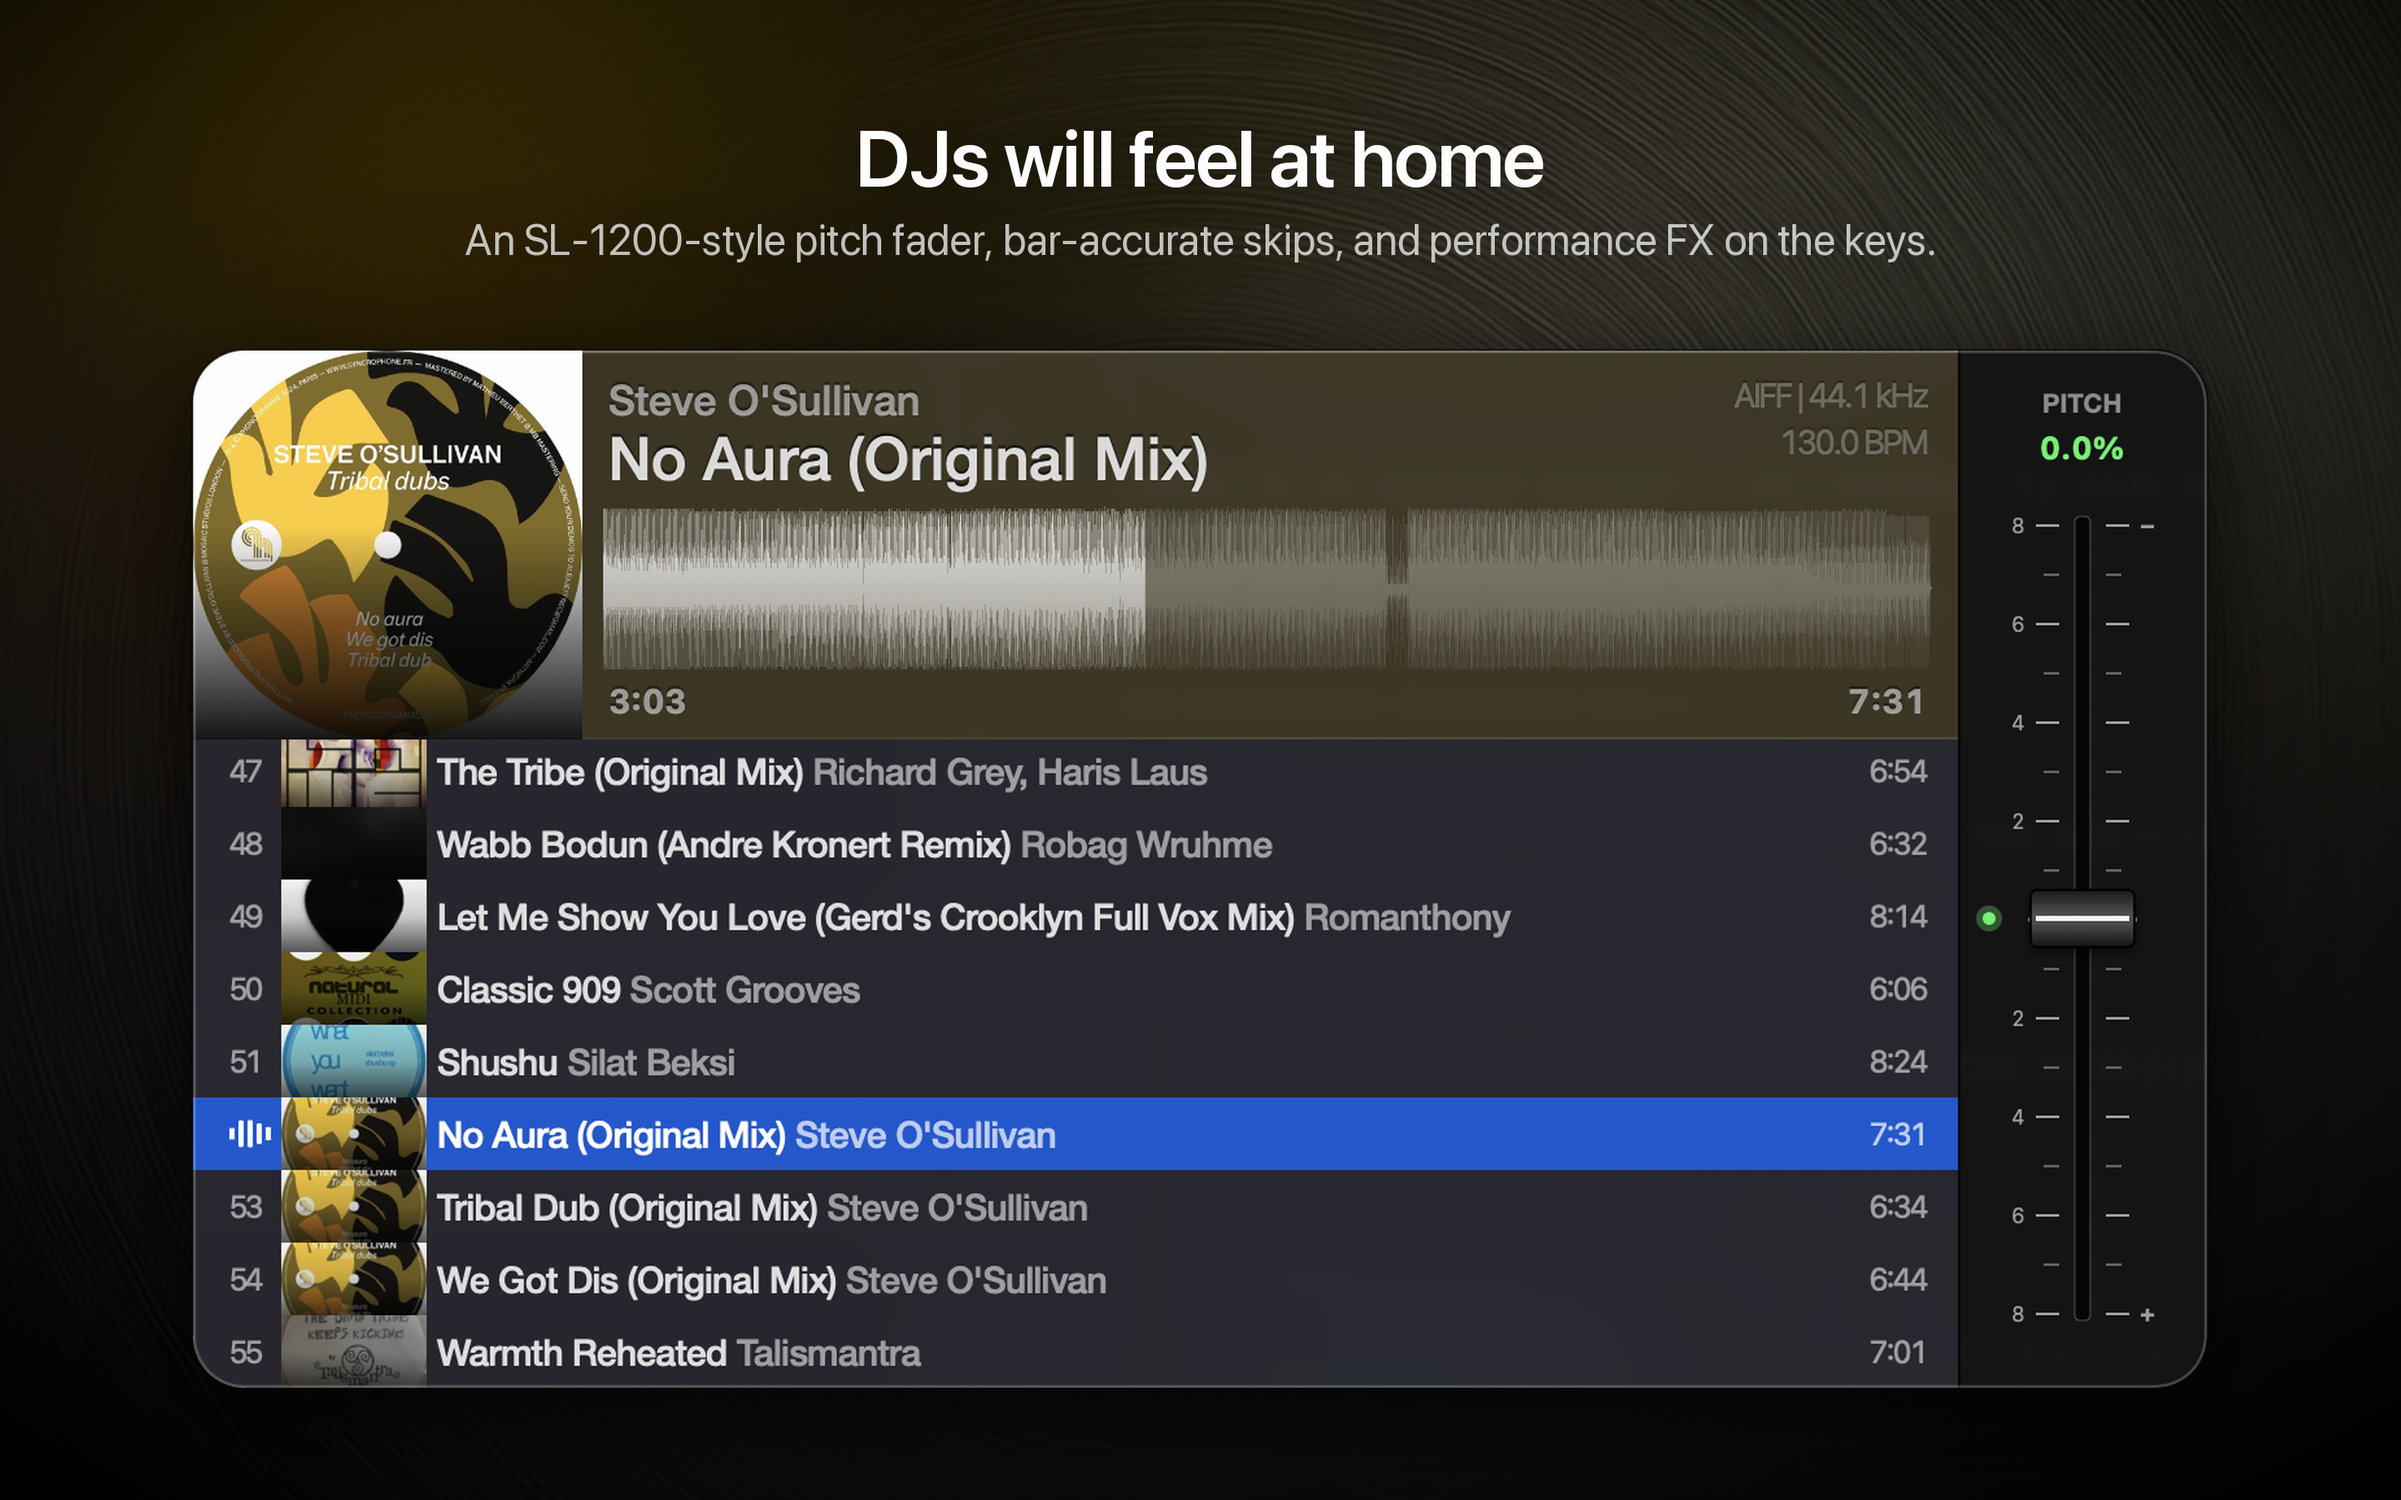
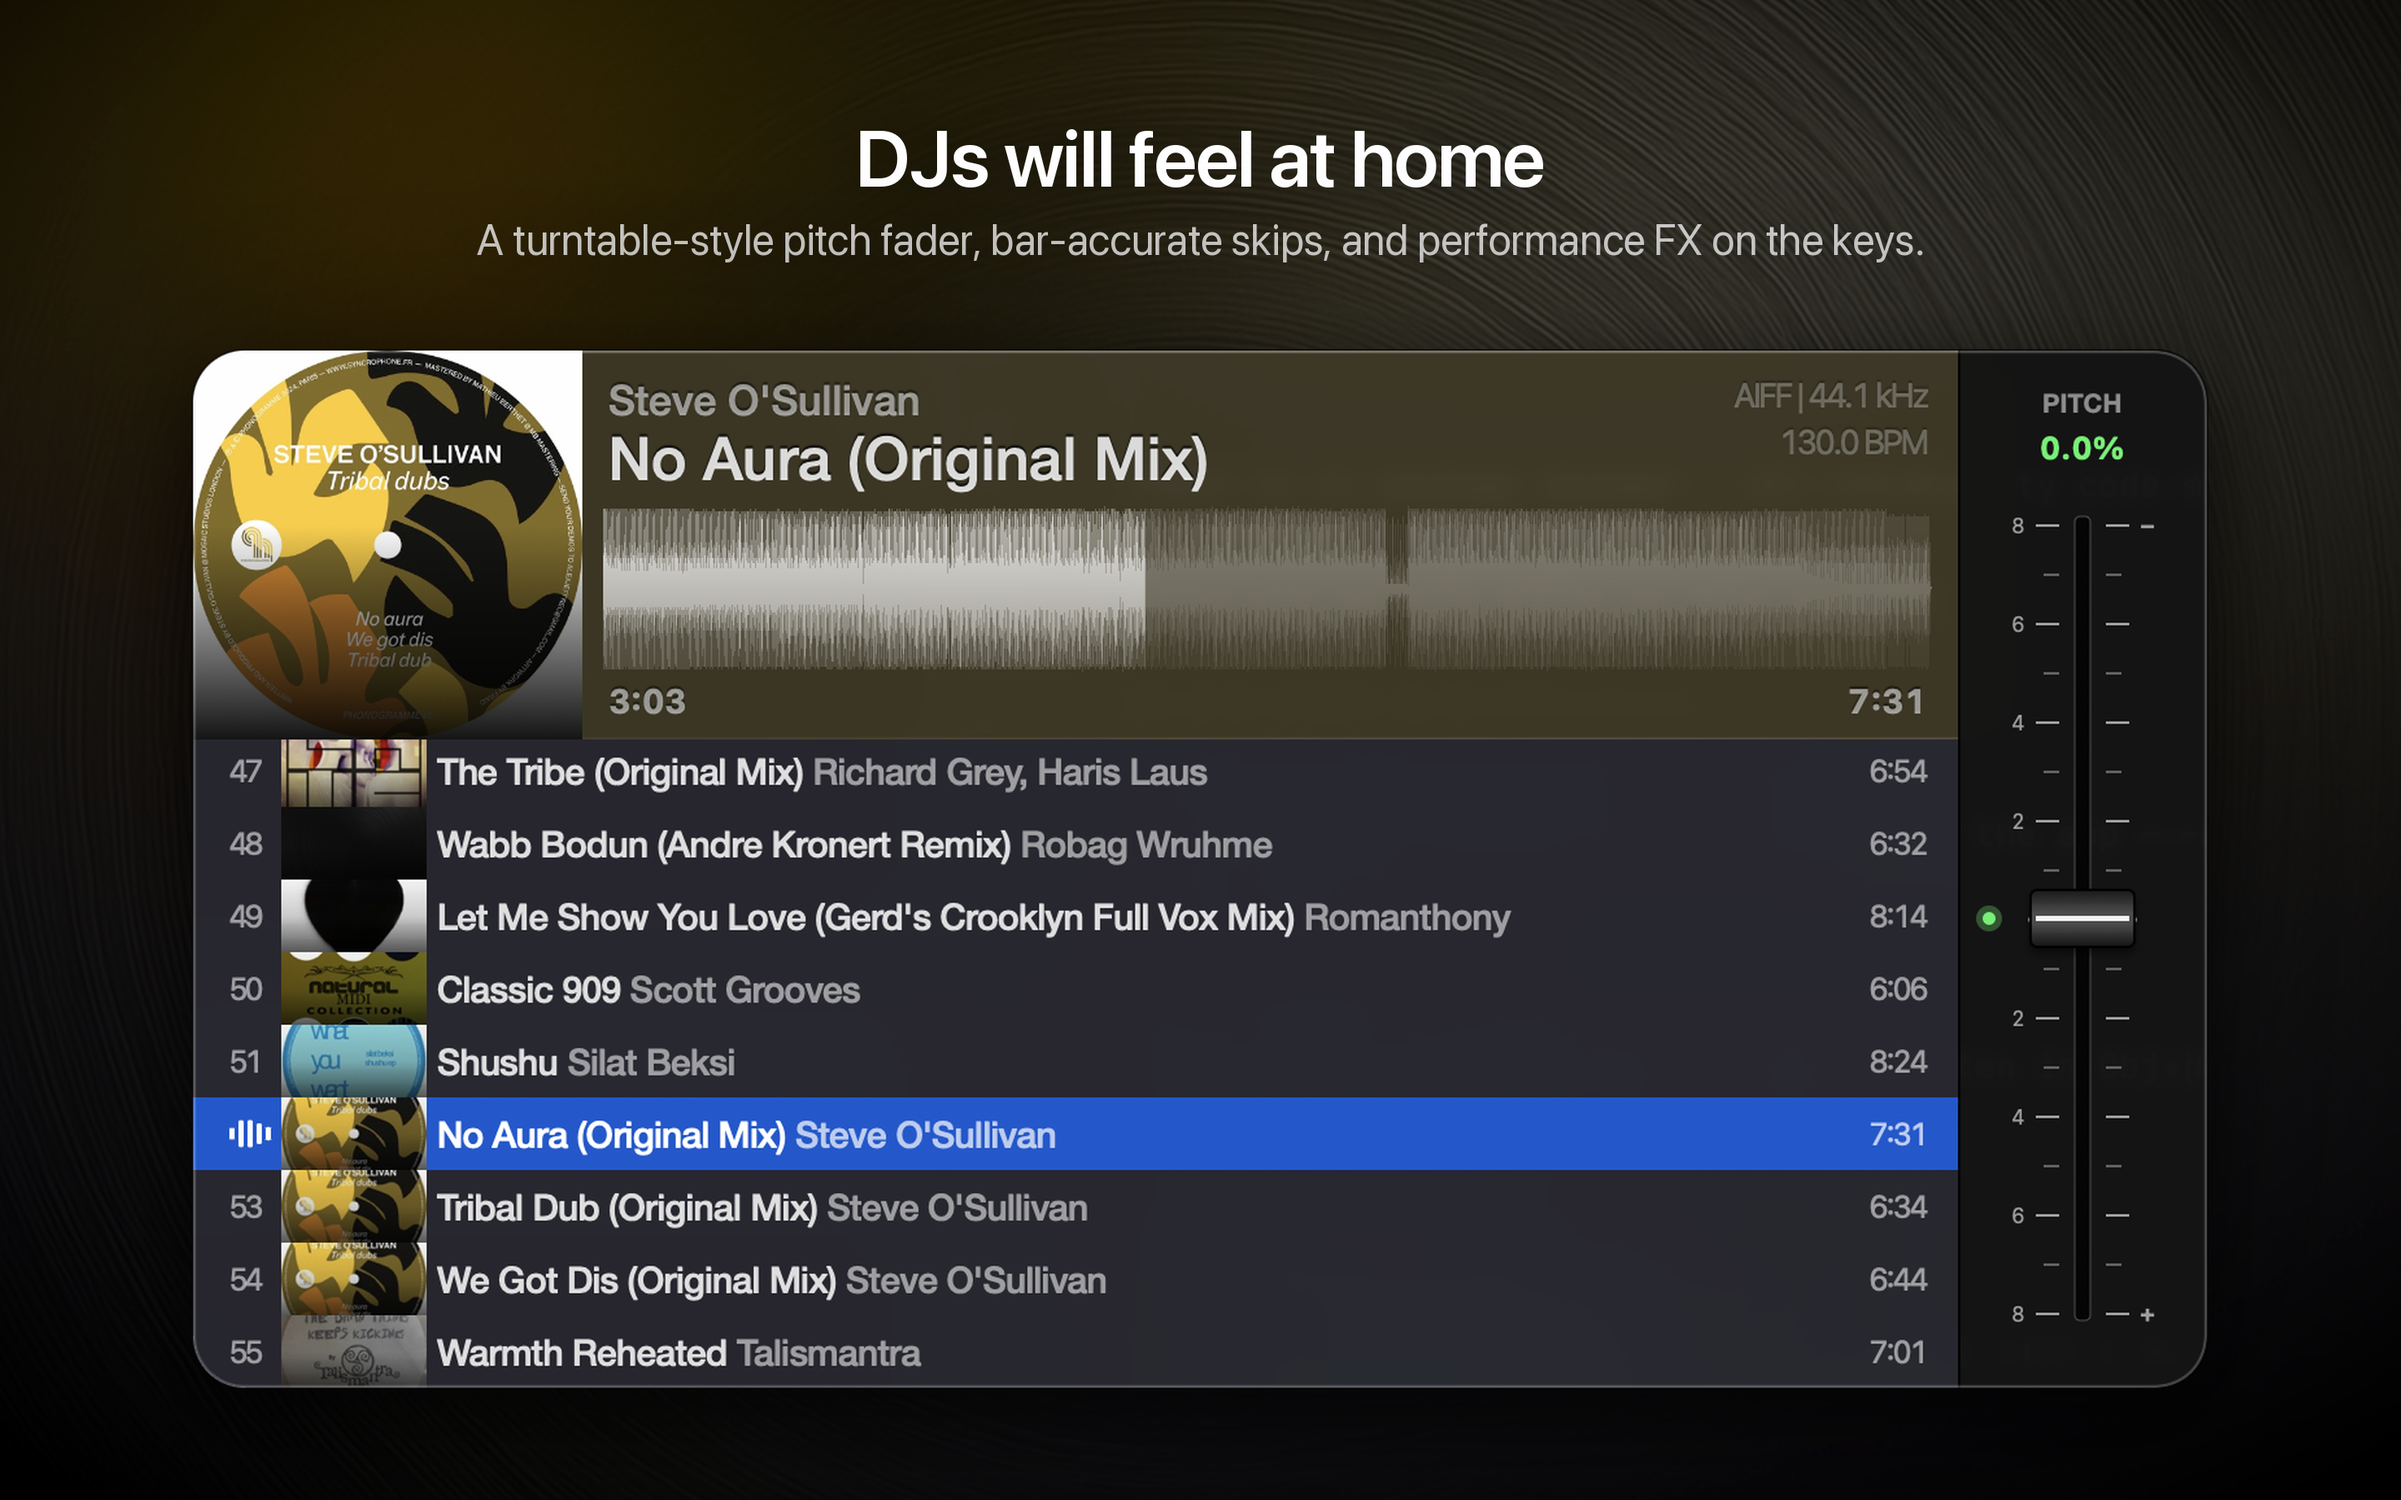
- Docs, app store copy, and readme updates

Changed region(s): [[0.1875, 0.1244, 0.8125, 0.1867]]

diff --git a/README.md b/README.md
@@ -1,12 +1,12 @@
 # Vibe
 
-A fast, minimal, Winamp-inspired music player for macOS. It is built for DJs: big local libraries, lossless files, and the need to sort and scrub through tracks in a hurry.
+A fast, minimal music player for the Mac. No third-party engine, no account, no subscription. Just a simple, fast player for your files. 
 
 ![Vibe screenshot](Assets/screenshot-basic.png)
 
-## Features
-
 [![Download on the App Store](https://toolbox.marketingtools.apple.com/api/v2/badges/download-on-the-app-store/black/en-us?releaseDate=1374883200)](https://apps.apple.com/us/app/vibe-music-player/id1582482361?mt=12)
+
+## Features
 
 - **Formats** — MP3, MP2, AAC, FLAC, MP4/M4A, AIFF and WAV, all decoded natively by CoreAudio
 - **Waveform seek bar** — a SoundCloud-style waveform; click it to seek
@@ -16,17 +16,13 @@ A fast, minimal, Winamp-inspired music player for macOS. It is built for DJs: bi
 - **Performance FX** — a low-kill filter, a reverb wash and BPM-synced delays on `Q`–`T`; tap to latch, hold for momentary
 - **Pitch adjust** — an optional SL-1200-style pitch fader
 
-## Usage
-
-Drop audio files or a folder on the window to play them.
-
-Click the waveform to seek.
-
 ![Vibe screenshot](Assets/screenshot-playlist.png)
 
-Drag the artwork out to copy the playing file somewhere else.
+## Usage
 
-![Vibe screenshot](Assets/screenshot-pitch.png)
+Drop audio files or a folder on the window to play them. Click the waveform to seek.
+
+Drag the artwork out to copy the playing file somewhere else.
 
 ### Key commands
 
@@ -53,9 +49,15 @@ Drag the artwork out to copy the playing file somewhere else.
 
 Tap an FX key to latch the effect; hold it for momentary.
 
+![Vibe screenshot](Assets/screenshot-pitch.png)
+
 ![Vibe screenshot](Assets/screenshot-playlist-pitch.png)
 
 # Development
+
+Vibe is written in Objective-C/C++ and is focused on performance and speed. It uses CoreAudio directly
+and avoids 3rd-party libraries where possible. TagLib 1.3 is included in-tree and used for reading 
+metadata and artwork.
 
 ## Requirements
 

diff --git a/docs/app-store-copy.md b/docs/app-store-copy.md
@@ -1,0 +1,23 @@
+# Promotional Text
+
+A fast, native player for your music files. Seekable waveform, turntable-style pitch fader, and DJ FX. No library, no account, no subscription.
+
+# Description
+
+Vibe is a fast, minimal music player for the Mac. No third-party engine, no account, no subscription. Just a simple, fast player for your files.
+
+## Waveform
+Vibe draws every track as a full waveform across the window. Click anywhere on it to seek. Vibe has no library to import and no database to rebuild. Drop a file or a folder on the window and it plays. Vibe reads tags, artwork, and BPM in the background and caches them, so the next open is instant.
+
+## Formats
+MP3, MP2, AAC, FLAC, MP4/M4A, AIFF, and WAV, all decoded by macOS itself. Lossless files play at full resolution, and each track's format and sample rate sit next to the title.
+
+## DJs Will Feel At Home
+* A pitch fader laid out like a turntable's, hidden until you want it.
+* Skips measured in bars, not seconds. When the tempo is known, jump 8, 16, or 32 bars and stay on the grid; when it isn't, the same keys move 10, 30, or 60 seconds.
+* Performance FX under one hand: a low-kill filter, a reverb wash, and delays locked to the track's BPM. Tap a key to latch an effect; hold it for momentary.
+
+# Keywords
+
+audiophile,audio,flac,waveform,dj,mp3,aiff,lossless,bpm,winamp,folder,offline,turntable,wav,aac
+

diff --git a/CHANGELOG.md b/CHANGELOG.md
@@ -1,0 +1,5 @@
+# v1.6
+
+* UI Enhancements (FX icons, highlight on waveform seek, new empty states)
+* UI Fixes (handling of long file names)
+* Performance improvements
